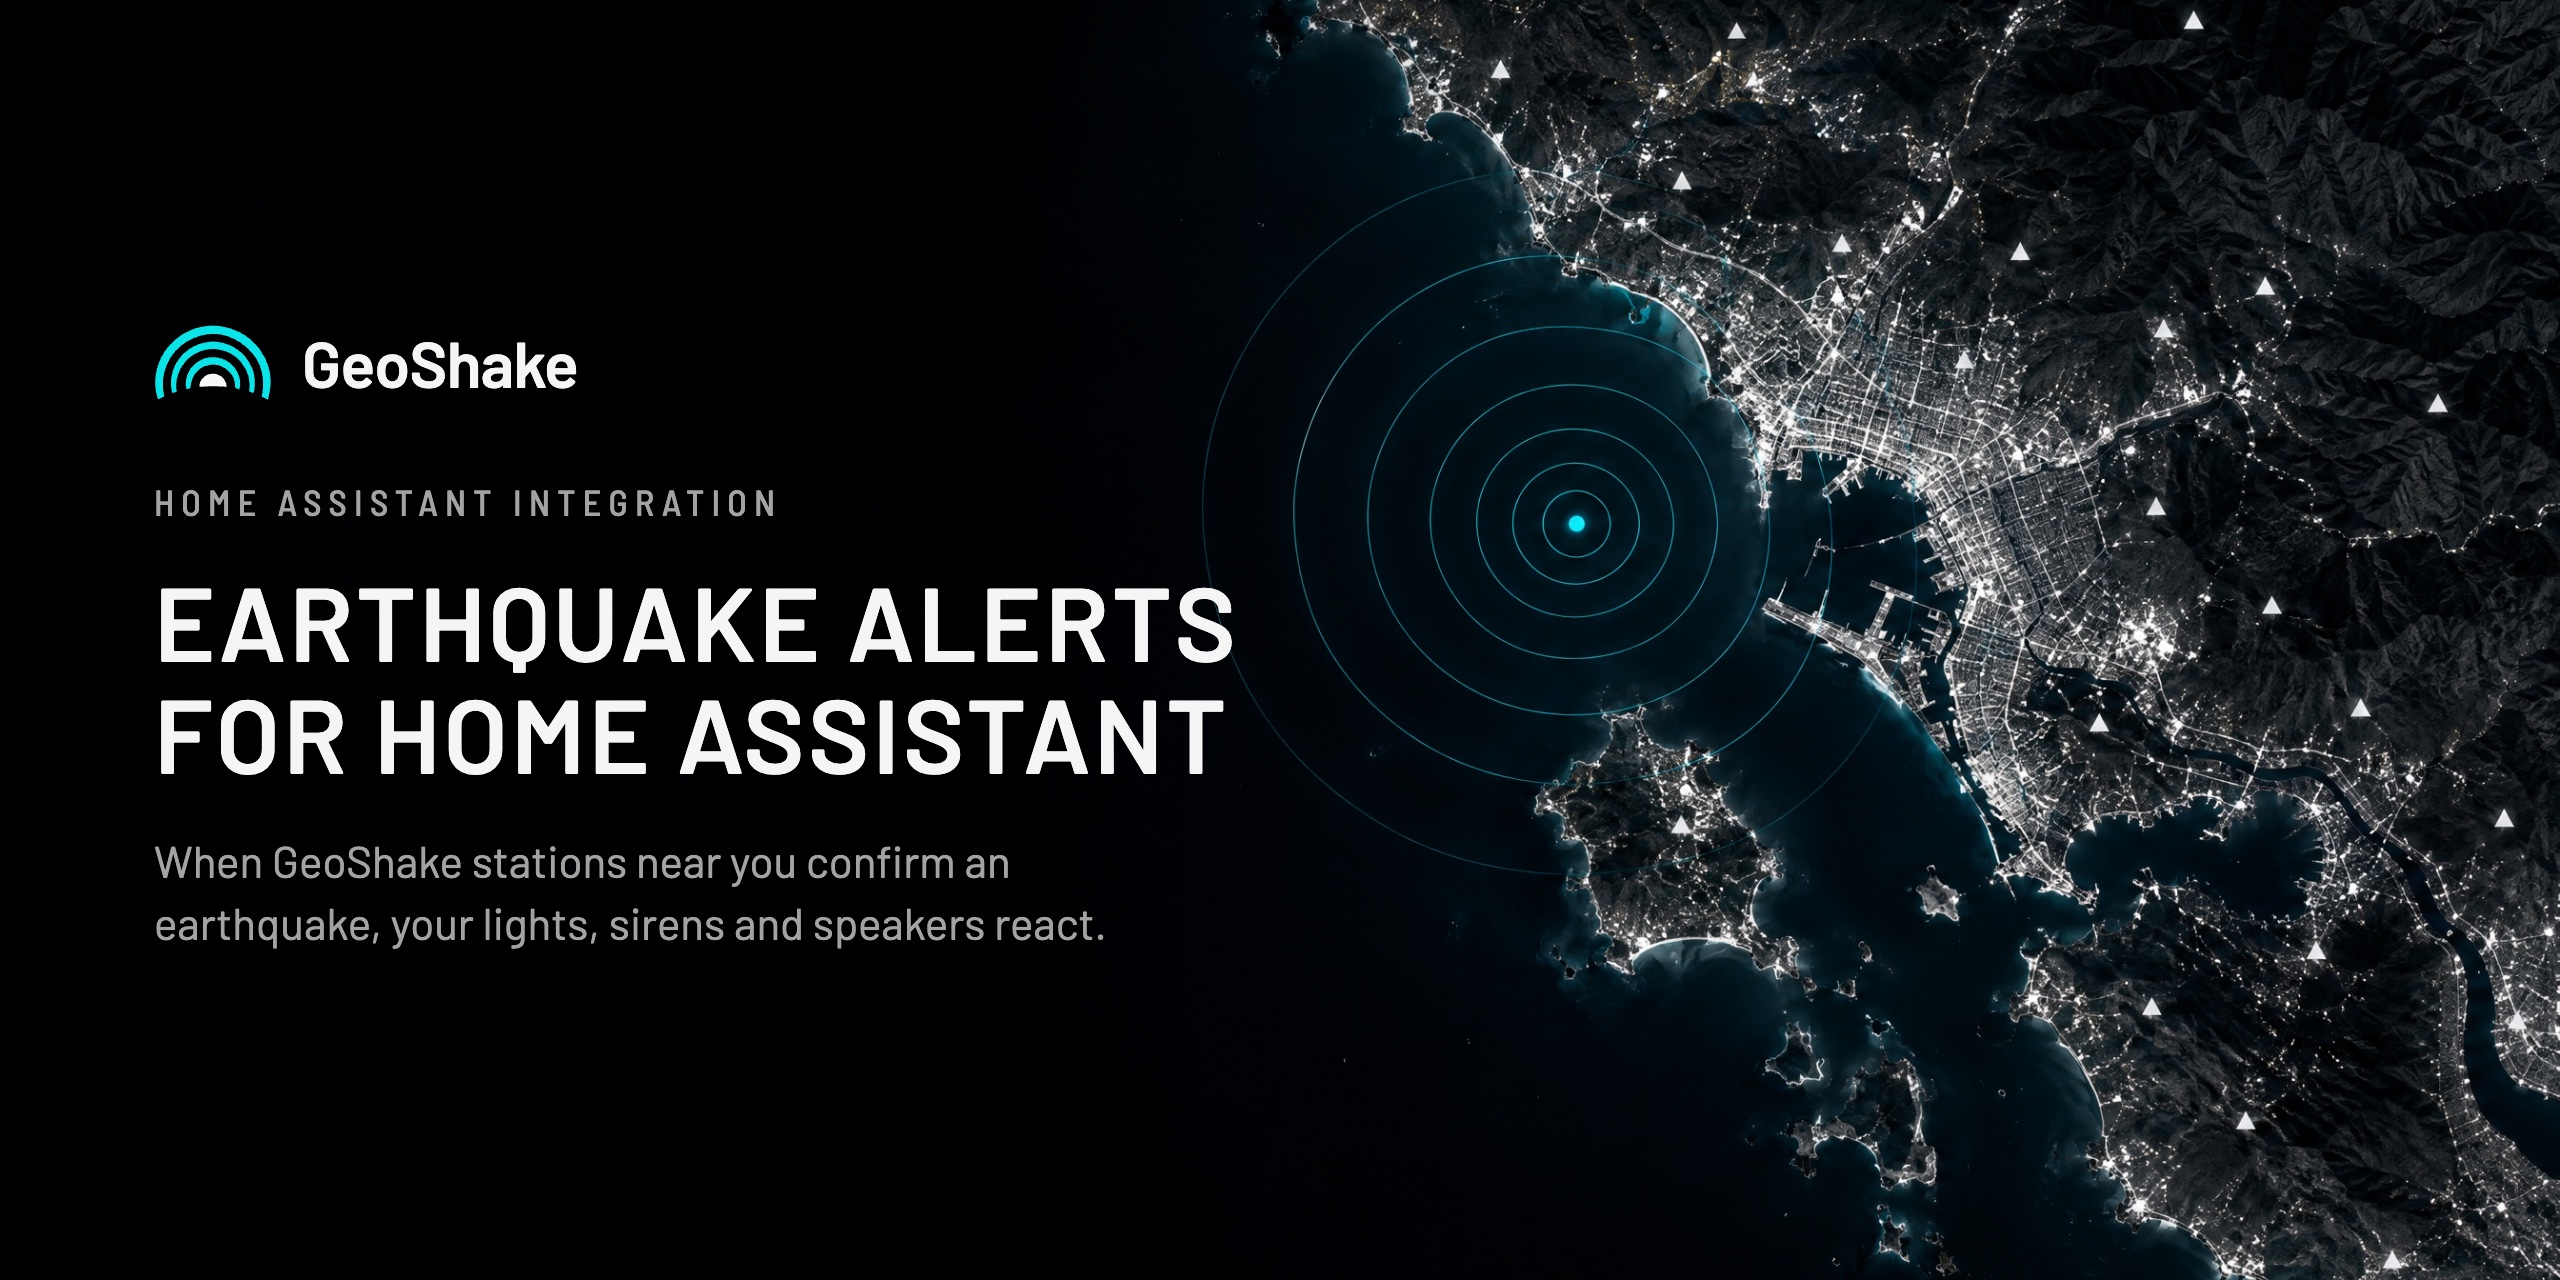
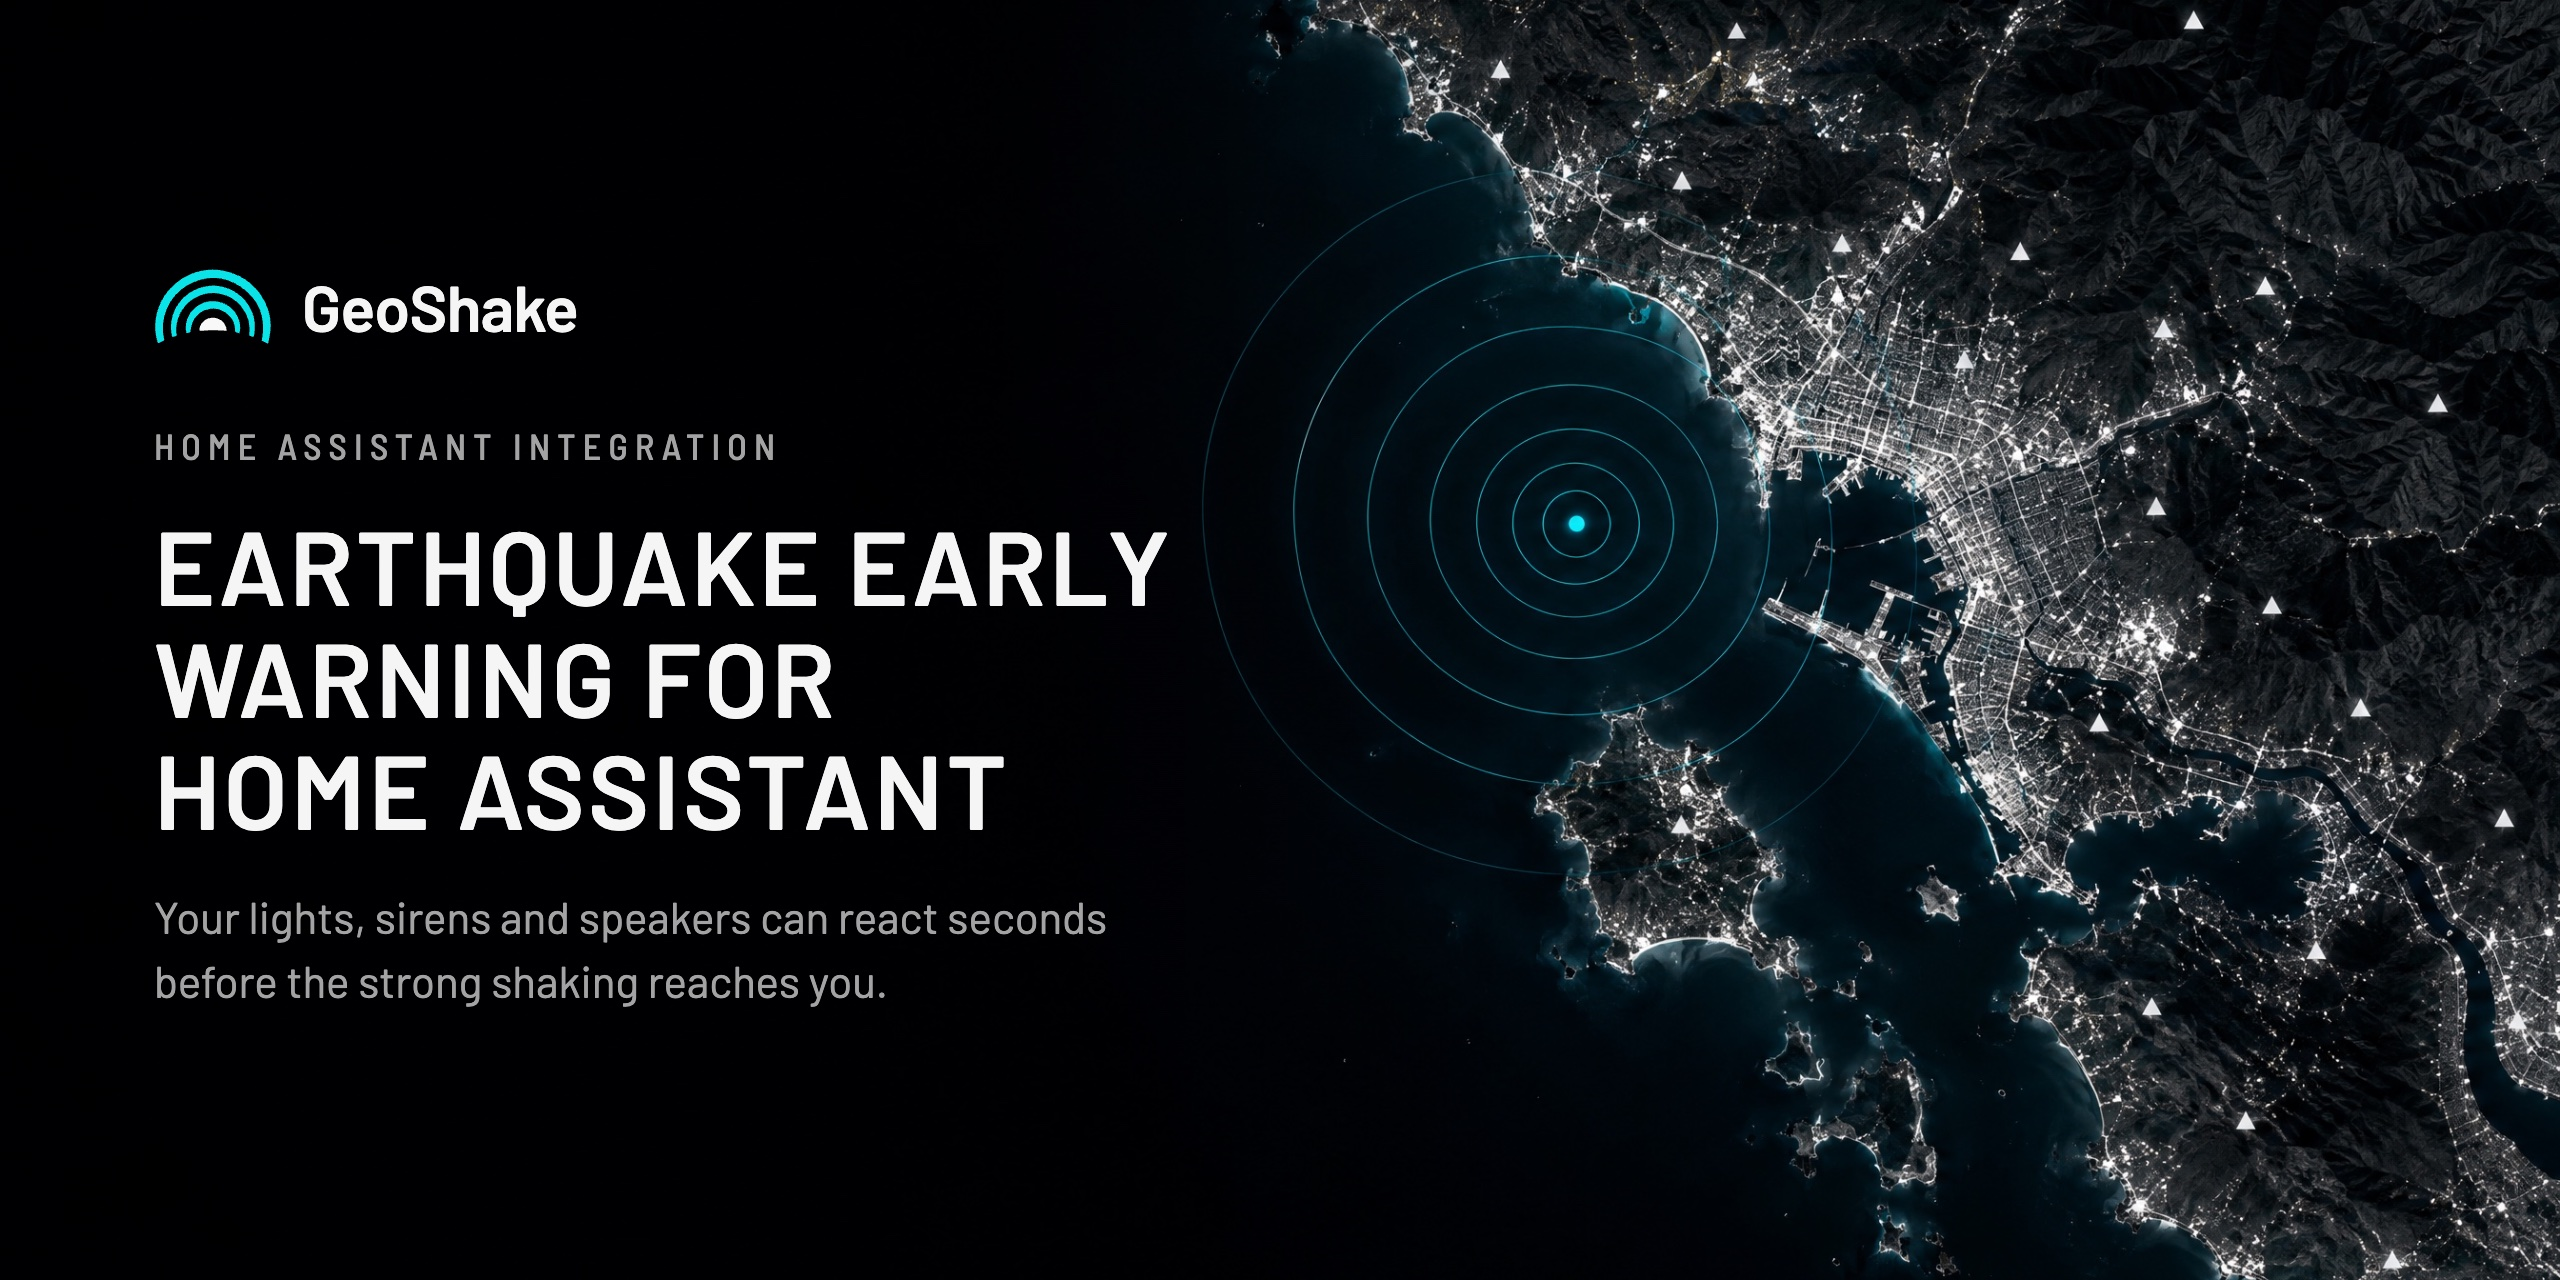
docs: lead with earthquake early warning
- Intro: when three nearby GeoShake stations confirm an earthquake, an early
  warning reaches Home Assistant, about 5 to 30 seconds before the strong
  shaking depending on distance from the epicenter
- Important note: early warning is not guaranteed; near the epicenter it can
  arrive after the shaking starts
- Cover headline: "Earthquake early warning for Home Assistant"

Changed region(s): [[0.0625, 0.3438, 0.5, 0.7812], [0.0625, 0.1875, 0.25, 0.3125]]

diff --git a/README.md b/README.md
@@ -4,7 +4,7 @@
 
 # GeoShake for Home Assistant
 
-Earthquake alerts from the GeoShake seismic network, as a sensor in Home Assistant. When GeoShake stations confirm an earthquake near your home, the **Earthquake** sensor switches to **Unsafe** and your automations run: lights, sirens, announcements.
+**Earthquake early warning for Home Assistant.** When at least three GeoShake stations close to each other confirm an earthquake, the GeoShake network sends an early warning and your Home Assistant gets it too: the **Earthquake** sensor switches to **Unsafe** and your automations run (lights, sirens, announcements). Depending on your distance from the epicenter, this gives you about **5 to 30 seconds** before the strong shaking reaches you.
 
 [![HACS Custom](https://img.shields.io/badge/HACS-Custom-orange.svg)](https://hacs.xyz)
 [![Release](https://img.shields.io/github/v/release/GeoShake/geoshake-homeassistant)](https://github.com/GeoShake/geoshake-homeassistant/releases)
@@ -18,7 +18,7 @@ Also on [Google Home and Amazon Alexa](#google-home-and-amazon-alexa).
 ![Three steps: add GeoShake to HACS, sign in with your GeoShake account, create an automation from Safe to Unsafe](docs/images/steps.png)
 
 > [!IMPORTANT]
-> This is a helpful extra notification layer. It is not a life-safety system, and automations can be delayed or fail to run. For official earthquake early warning, rely on your national authority and the GeoShake app.
+> Early warning is not guaranteed. Close to the epicenter the warning can arrive after the shaking has started, and automations can be delayed or fail to run. Treat this as a helpful extra layer, not a life-safety system: keep alerts on in the GeoShake app and follow your national authority's official warnings.
 
 ## Will it work where I live?
 
@@ -109,7 +109,7 @@ Both react to confirmed earthquakes within 300 km of the GeoShake T1 registered 
 flowchart LR
   subgraph NET["GeoShake network"]
     direction TB
-    S["3+ stations detect shaking"] --> C["Earthquake confirmed"]
+    S["3+ stations detect shaking"] --> C["Earthquake confirmed, early warning sent"]
   end
   subgraph HOME["Your Home Assistant"]
     direction TB
